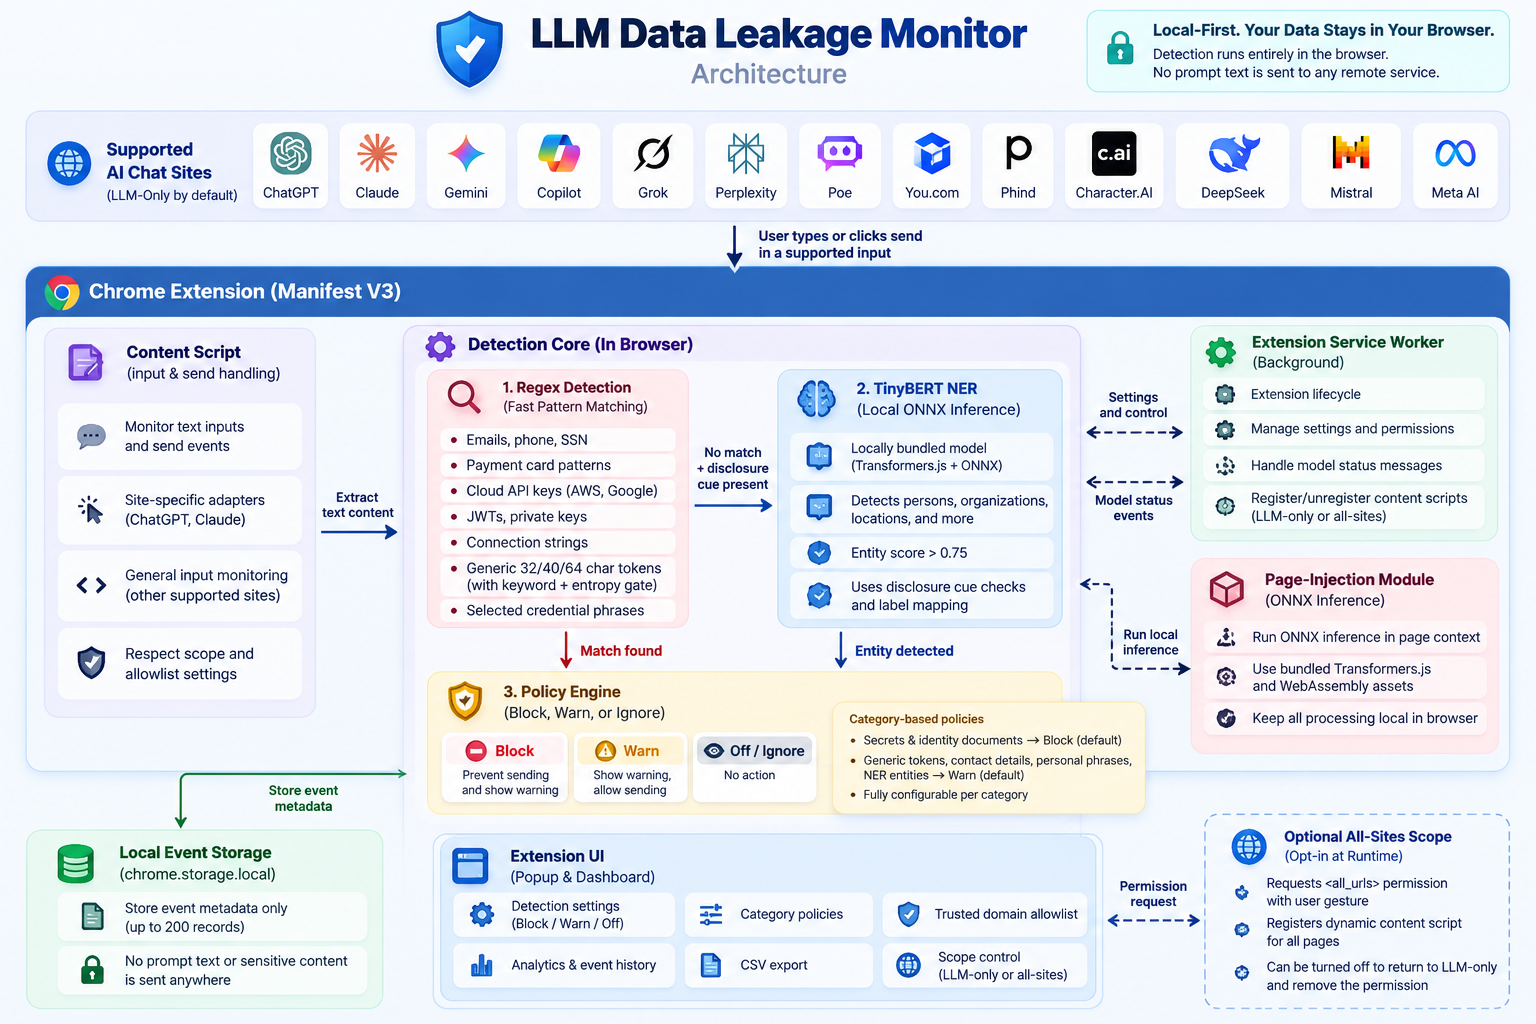
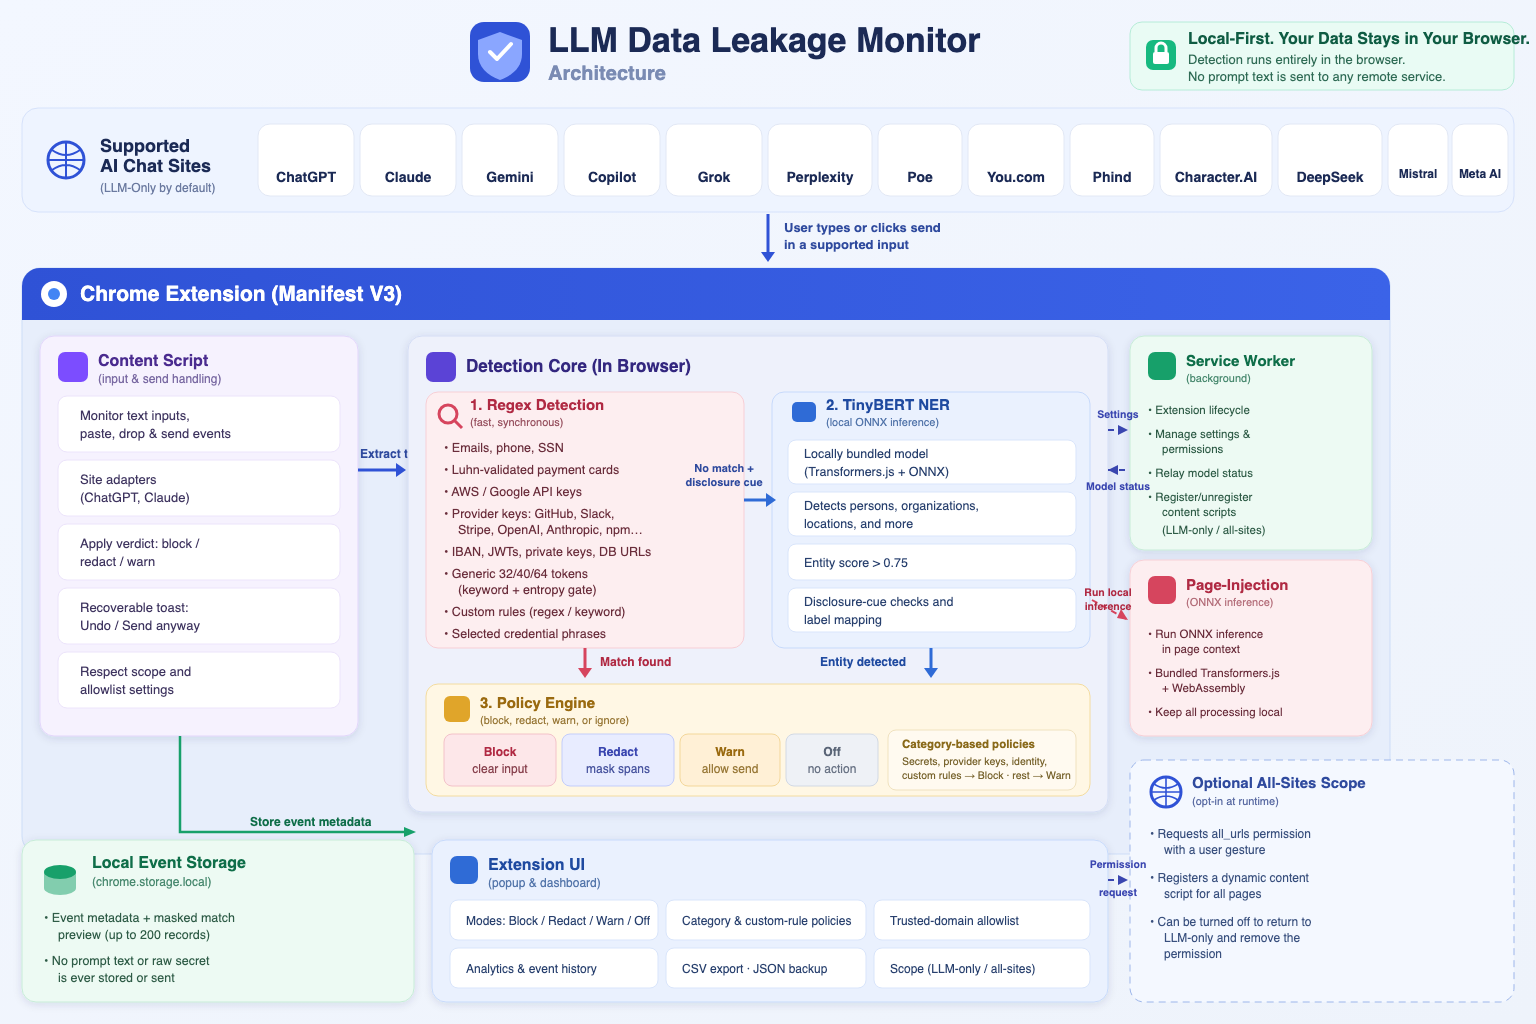
docs: update architecture diagram image for v1.9
Regenerate the architecture PNG to reflect current features and add
architecture.svg as the editable source. Changes shown in the diagram:
Luhn-validated cards and provider keys (GitHub/Slack/Stripe/OpenAI/…) + IBAN
in the regex layer, custom rules, a four-way Policy Engine (block/redact/warn/
off), redact 'mask spans', the recoverable Undo / Send anyway toast, and
masked match previews + JSON backup in storage/UI. Document the SVG->PNG
regeneration step in ARCHITECTURE.md.

diff --git a/ARCHITECTURE.md b/ARCHITECTURE.md
@@ -182,8 +182,23 @@ All state is local (`chrome.storage.local`); nothing is sent remotely.
 
 ## 8. Regenerating the diagram image
 
-`LLM Data Leakage Monitor Architecture.png` is the rendered diagram shown in the
-README. When the architecture changes, update the Mermaid sources in this file
-and re-export the PNG (for example by pasting the Section 1 diagram into a
-Mermaid renderer such as the Mermaid Live Editor and exporting at the same
-dimensions). Keep this document as the source of truth; the PNG is a snapshot.
+`LLM Data Leakage Monitor Architecture.png` (the infographic shown in the
+README) is rendered from `architecture.svg`, which is the editable source of
+truth for the image. When the architecture changes, edit `architecture.svg`
+and re-export the PNG at 1536×1024, for example with a headless Chromium:
+
+```bash
+# Wrap the SVG in a minimal HTML page and screenshot it at exact size.
+{ printf '<!doctype html><html><head><meta charset="utf-8">'
+  printf '<style>html,body{margin:0;padding:0}svg{display:block}</style></head><body>'
+  cat architecture.svg
+  printf '</body></html>'; } > /tmp/arch.html
+
+chrome-headless-shell --headless --disable-gpu --hide-scrollbars \
+  --force-device-scale-factor=1 --window-size=1536,1024 \
+  --virtual-time-budget=2000 --default-background-color=FFFFFFFF \
+  --screenshot="LLM Data Leakage Monitor Architecture.png" "file:///tmp/arch.html"
+```
+
+Any SVG→PNG renderer works (headless Chromium, `rsvg-convert`, Inkscape, or an
+online converter); the Mermaid diagrams above remain the conceptual reference.
